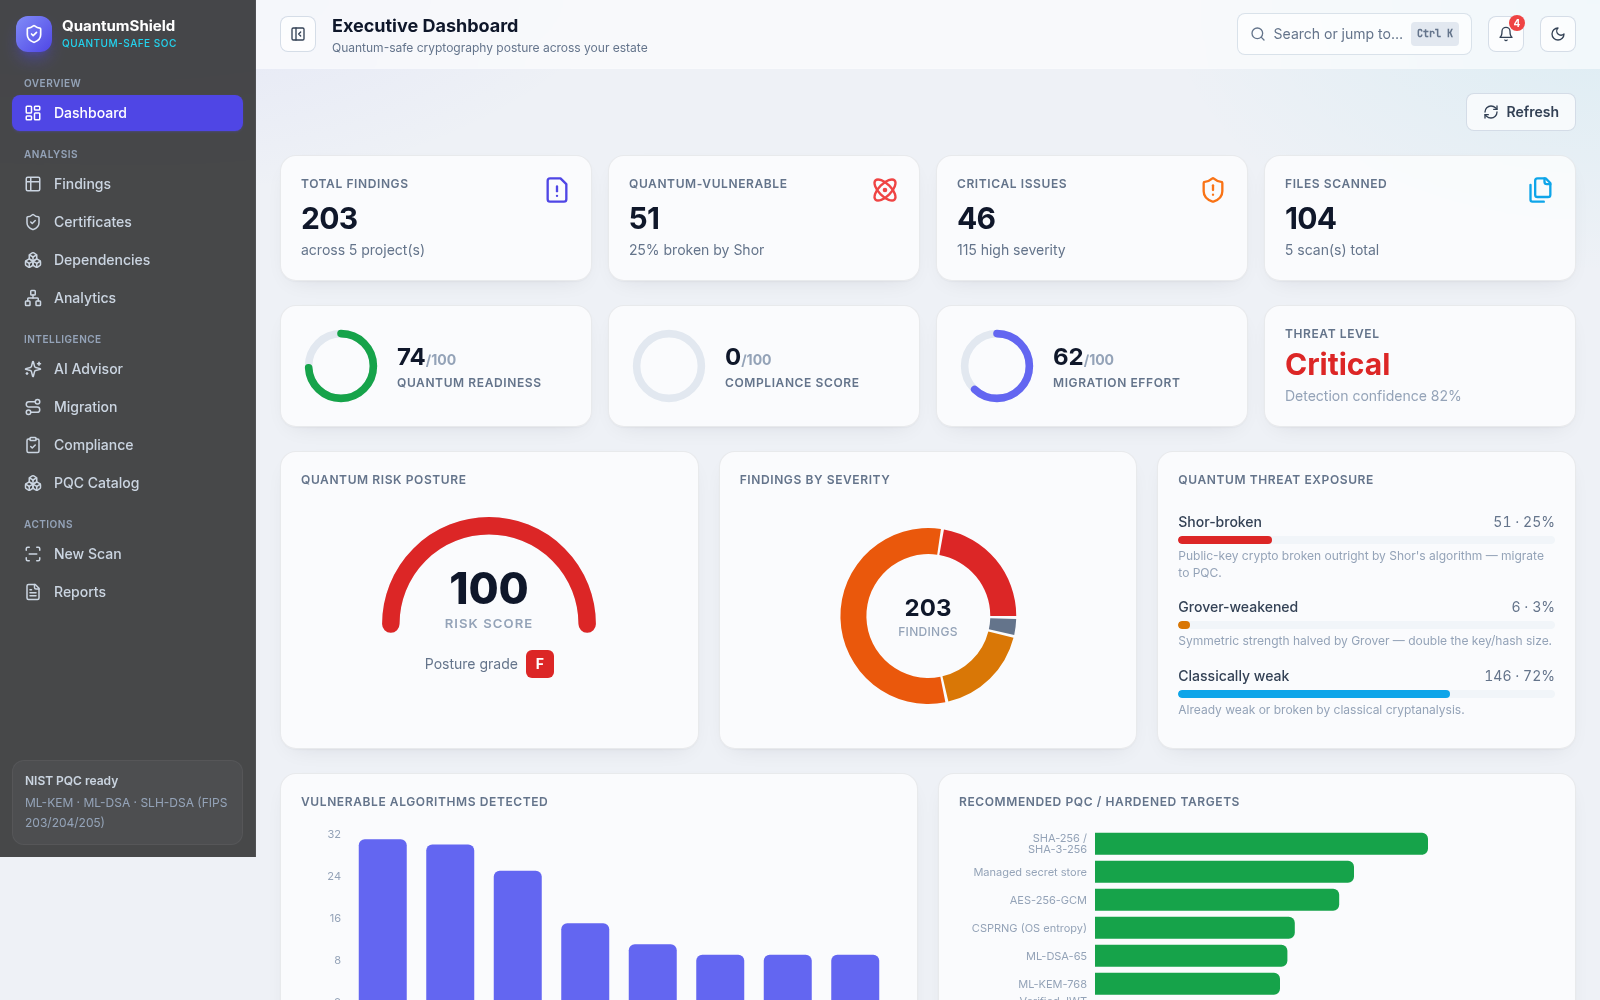
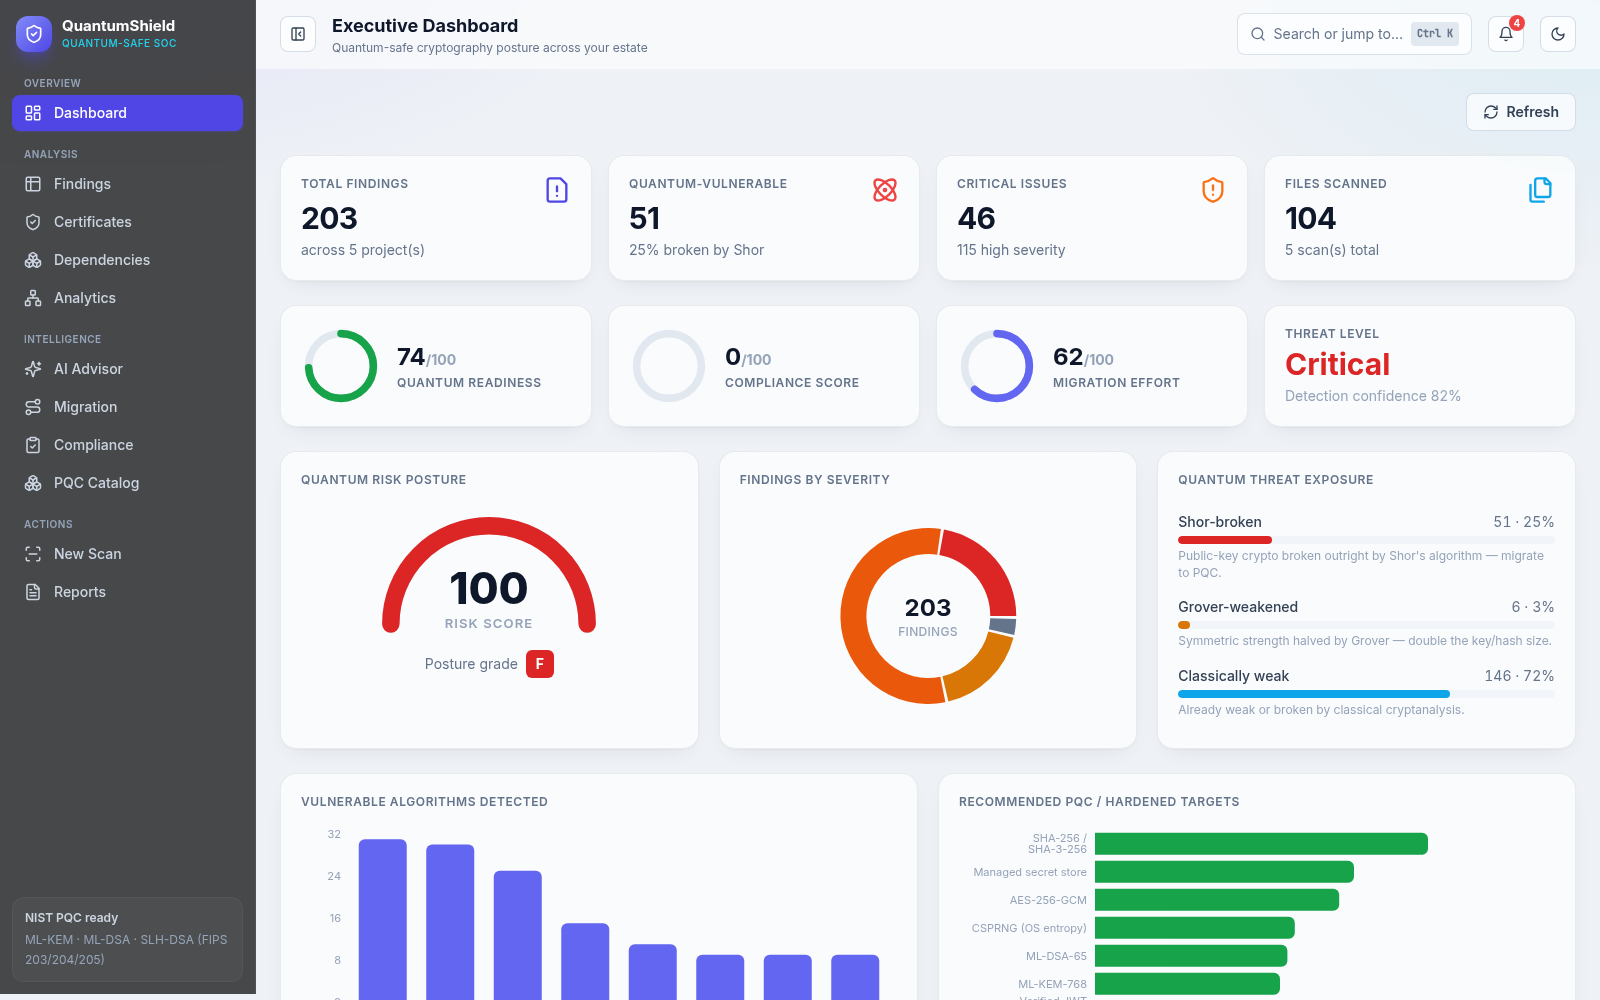
fix: normalise compliance scoring so it is not always zero
The score summed severity weights unbounded and multiplied by 4:

    score = max(0, round(100 - min(100, weighted * 4)))

Severity weights are Critical=10/High=6/Medium=3/Low=1, so the term
crossed 100 at weighted>=25 — three Critical findings. Every framework
therefore reported exactly 0 on any real codebase, and the score scaled
with repository size rather than posture.

Score against the framework's control universe instead: each impacted
control is degraded by its own worst severity, giving a bounded 0-100
figure comparable across codebases. Adds mapping.all_controls().

Also derive status from the score. Previously any single High finding
forced "Fail" regardless of everything else, so "Partial" was
unreachable and the Partial tile always read 0.

Seeded data now scores 0-22 across the eight frameworks instead of a
flat wall of zeros; a clean repo scores 100 and passes.

Changed region(s): [[0.0, 0.775, 0.1875, 1.0]]

diff --git a/backend/app/core/compliance/engine.py b/backend/app/core/compliance/engine.py
@@ -5,7 +5,6 @@ from collections import defaultdict
 from typing import Dict, Iterable, List
 
 from ..detection.rules import RULES_BY_ID
-from ..risk.scoring import SEVERITY_WEIGHT
 from . import mapping
 
 _SEV_RANK = {"Critical": 0, "High": 1, "Medium": 2, "Low": 3}
@@ -15,12 +14,21 @@ def _worst(a: str, b: str) -> str:
     return a if _SEV_RANK.get(a, 9) <= _SEV_RANK.get(b, 9) else b
 
 
-def _status(worst_sev: str | None) -> str:
-    if worst_sev in ("Critical", "High"):
-        return "Fail"
-    if worst_sev in ("Medium", "Low"):
+# How much of a single control a finding of each severity consumes. A Critical
+# finding fails its control outright; lighter severities degrade it.
+_CONTROL_PENALTY = {"Critical": 1.0, "High": 0.75, "Medium": 0.4, "Low": 0.15}
+
+# Score thresholds for the reported status.
+_PASS_AT = 80
+_PARTIAL_AT = 50
+
+
+def _status(score: int, touched: bool) -> str:
+    if not touched or score >= _PASS_AT:
+        return "Pass"
+    if score >= _PARTIAL_AT:
         return "Partial"
-    return "Pass"
+    return "Fail"
 
 
 def compute(findings: Iterable[dict]) -> dict:
@@ -30,7 +38,6 @@ def compute(findings: Iterable[dict]) -> dict:
     controls: Dict[tuple, dict] = {}
     # framework -> aggregate
     fw_findings: Dict[str, int] = defaultdict(int)
-    fw_weight: Dict[str, float] = defaultdict(float)
     fw_worst: Dict[str, str] = {}
     fw_touched: Dict[str, set] = defaultdict(set)
 
@@ -39,7 +46,6 @@ def compute(findings: Iterable[dict]) -> dict:
         category = rule.pqc_category if rule else None
         threat = f.get("quantum_threat", "classical")
         severity = f.get("severity", "Low")
-        weight = SEVERITY_WEIGHT.get(severity, 1.0)
 
         for framework, cid, title in mapping.controls_for(category, threat):
             key = (framework, cid)
@@ -48,7 +54,6 @@ def compute(findings: Iterable[dict]) -> dict:
             entry["severity"] = _worst(entry["severity"], severity)
 
             fw_findings[framework] += 1
-            fw_weight[framework] += weight
             fw_worst[framework] = _worst(fw_worst.get(framework, "Low"), severity)
             fw_touched[framework].add(cid)
 
@@ -56,17 +61,30 @@ def compute(findings: Iterable[dict]) -> dict:
     passed = partial = failed = 0
     for name in mapping.FRAMEWORKS:
         touched = name in fw_findings
-        worst = fw_worst.get(name) if touched else None
-        status = _status(worst)
+
+        # Posture is the share of this framework's controls left intact. Each
+        # impacted control is degraded by its own worst severity, so the score
+        # is bounded and comparable across codebases of any size — unlike a raw
+        # weighted sum, which saturated to 0 after only three Critical findings.
+        universe = mapping.all_controls(name)
+        impacted = {
+            cid: data["severity"]
+            for (fw, cid), data in controls.items()
+            if fw == name
+        }
+        if universe:
+            penalty = sum(_CONTROL_PENALTY.get(sev, 0.15) for sev in impacted.values())
+            score = max(0, min(100, round(100 * (1 - penalty / len(universe)))))
+        else:
+            score = 100
+
+        status = _status(score, touched)
         if status == "Pass":
             passed += 1
         elif status == "Partial":
             partial += 1
         else:
             failed += 1
-
-        weighted = fw_weight.get(name, 0.0)
-        score = max(0, round(100 - min(100, weighted * 4)))
 
         ctrl_list = [
             {"id": cid, "title": data["title"], "findings": data["count"], "severity": data["severity"]}

diff --git a/backend/tests/test_modules.py b/backend/tests/test_modules.py
@@ -180,3 +180,41 @@ def test_simulation_computes_size_growth_and_bandwidth():
     assert sim["bandwidth"]["per_handshake_delta_b"] > 0
     assert sim["api_sites_to_update"] >= 1
     assert 0 <= sim["compatibility_risk"] <= 90
+
+
+def test_compliance_score_is_normalised_not_saturated():
+    """A clean repo passes; severity degrades posture gradually, not off a cliff.
+
+    The original formula summed severity weights unbounded and multiplied by 4,
+    so three Critical findings pinned every framework to 0 and "Partial" was
+    unreachable.
+    """
+    clean = compliance_engine.compute([])
+    assert clean["overall"]["passed"] == len(clean["frameworks"])
+    assert all(f["score"] == 100 for f in clean["frameworks"])
+
+    def scores(sev, threat="classical", rule="MD5"):
+        d = compliance_engine.compute([{"rule_id": rule, "severity": sev, "quantum_threat": threat}])
+        return {f["name"]: f["score"] for f in d["frameworks"] if f["findings"]}
+
+    low, medium, high = scores("Low"), scores("Medium"), scores("High")
+    assert low and medium and high
+    # Monotonic: heavier severity never scores better on the same control set.
+    for name in low:
+        assert low[name] >= medium[name] >= high[name]
+
+    # Volume alone must not saturate the score to zero.
+    many = compliance_engine.compute(
+        [{"rule_id": "MD5", "severity": "Medium", "quantum_threat": "classical"}] * 200
+    )
+    assert any(f["score"] > 0 for f in many["frameworks"])
+
+    # All three statuses must be reachable.
+    statuses = set()
+    for sev in ("Low", "Medium", "High", "Critical"):
+        for threat, rule in (("classical", "MD5"), ("shor", "RSA")):
+            d = compliance_engine.compute(
+                [{"rule_id": rule, "severity": sev, "quantum_threat": threat}]
+            )
+            statuses.update(f["status"] for f in d["frameworks"])
+    assert {"Pass", "Partial", "Fail"} <= statuses

diff --git a/backend/app/core/compliance/mapping.py b/backend/app/core/compliance/mapping.py
@@ -108,3 +108,25 @@ def controls_for(pqc_category: str | None, quantum_threat: str) -> List[Control]
             seen.add(key)
             out.append(c)
     return out
+
+
+def all_controls(framework: str) -> List[Control]:
+    """Every control this module can ever attribute to `framework`.
+
+    Compliance posture is measured against this universe rather than against
+    raw finding volume, so a large codebase is not penalised simply for being
+    large.
+    """
+    pools: List[Control] = list(_BASE_CRYPTO) + list(_QUANTUM)
+    for controls in CATEGORY_CONTROLS.values():
+        pools += controls
+    seen = set()
+    out: List[Control] = []
+    for c in pools:
+        if c[0] != framework:
+            continue
+        if c[1] in seen:
+            continue
+        seen.add(c[1])
+        out.append(c)
+    return out
